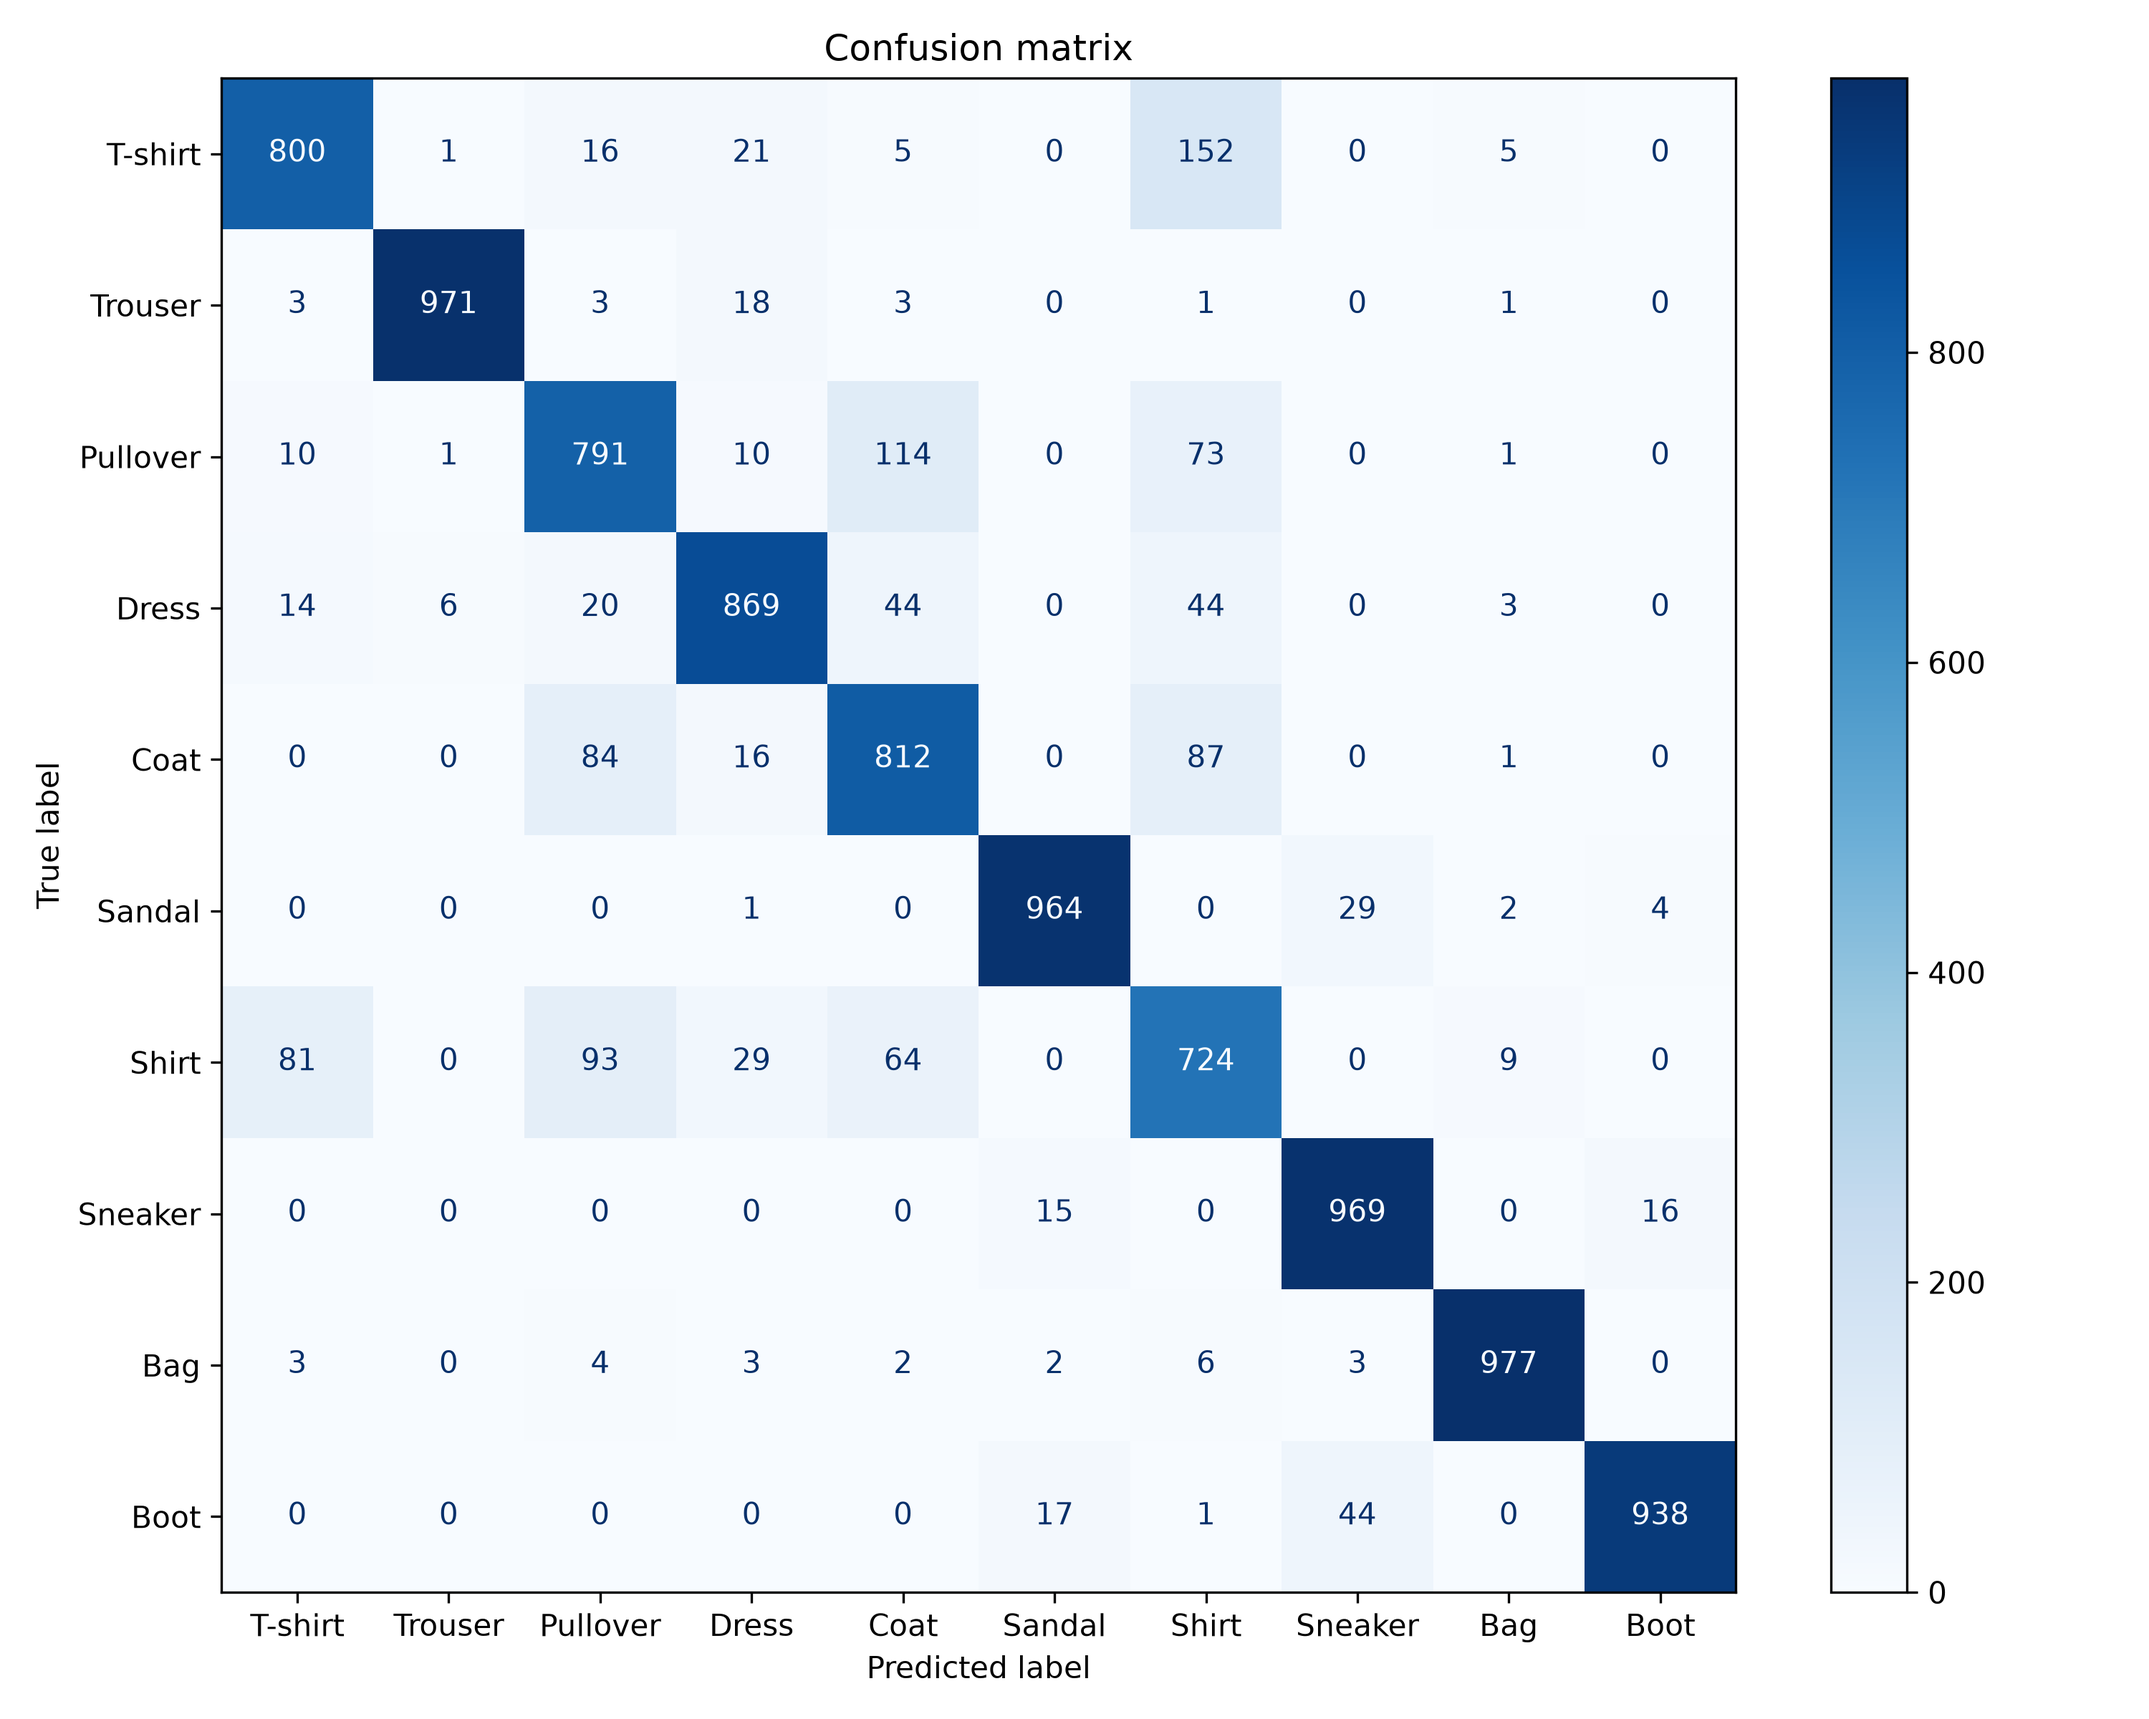
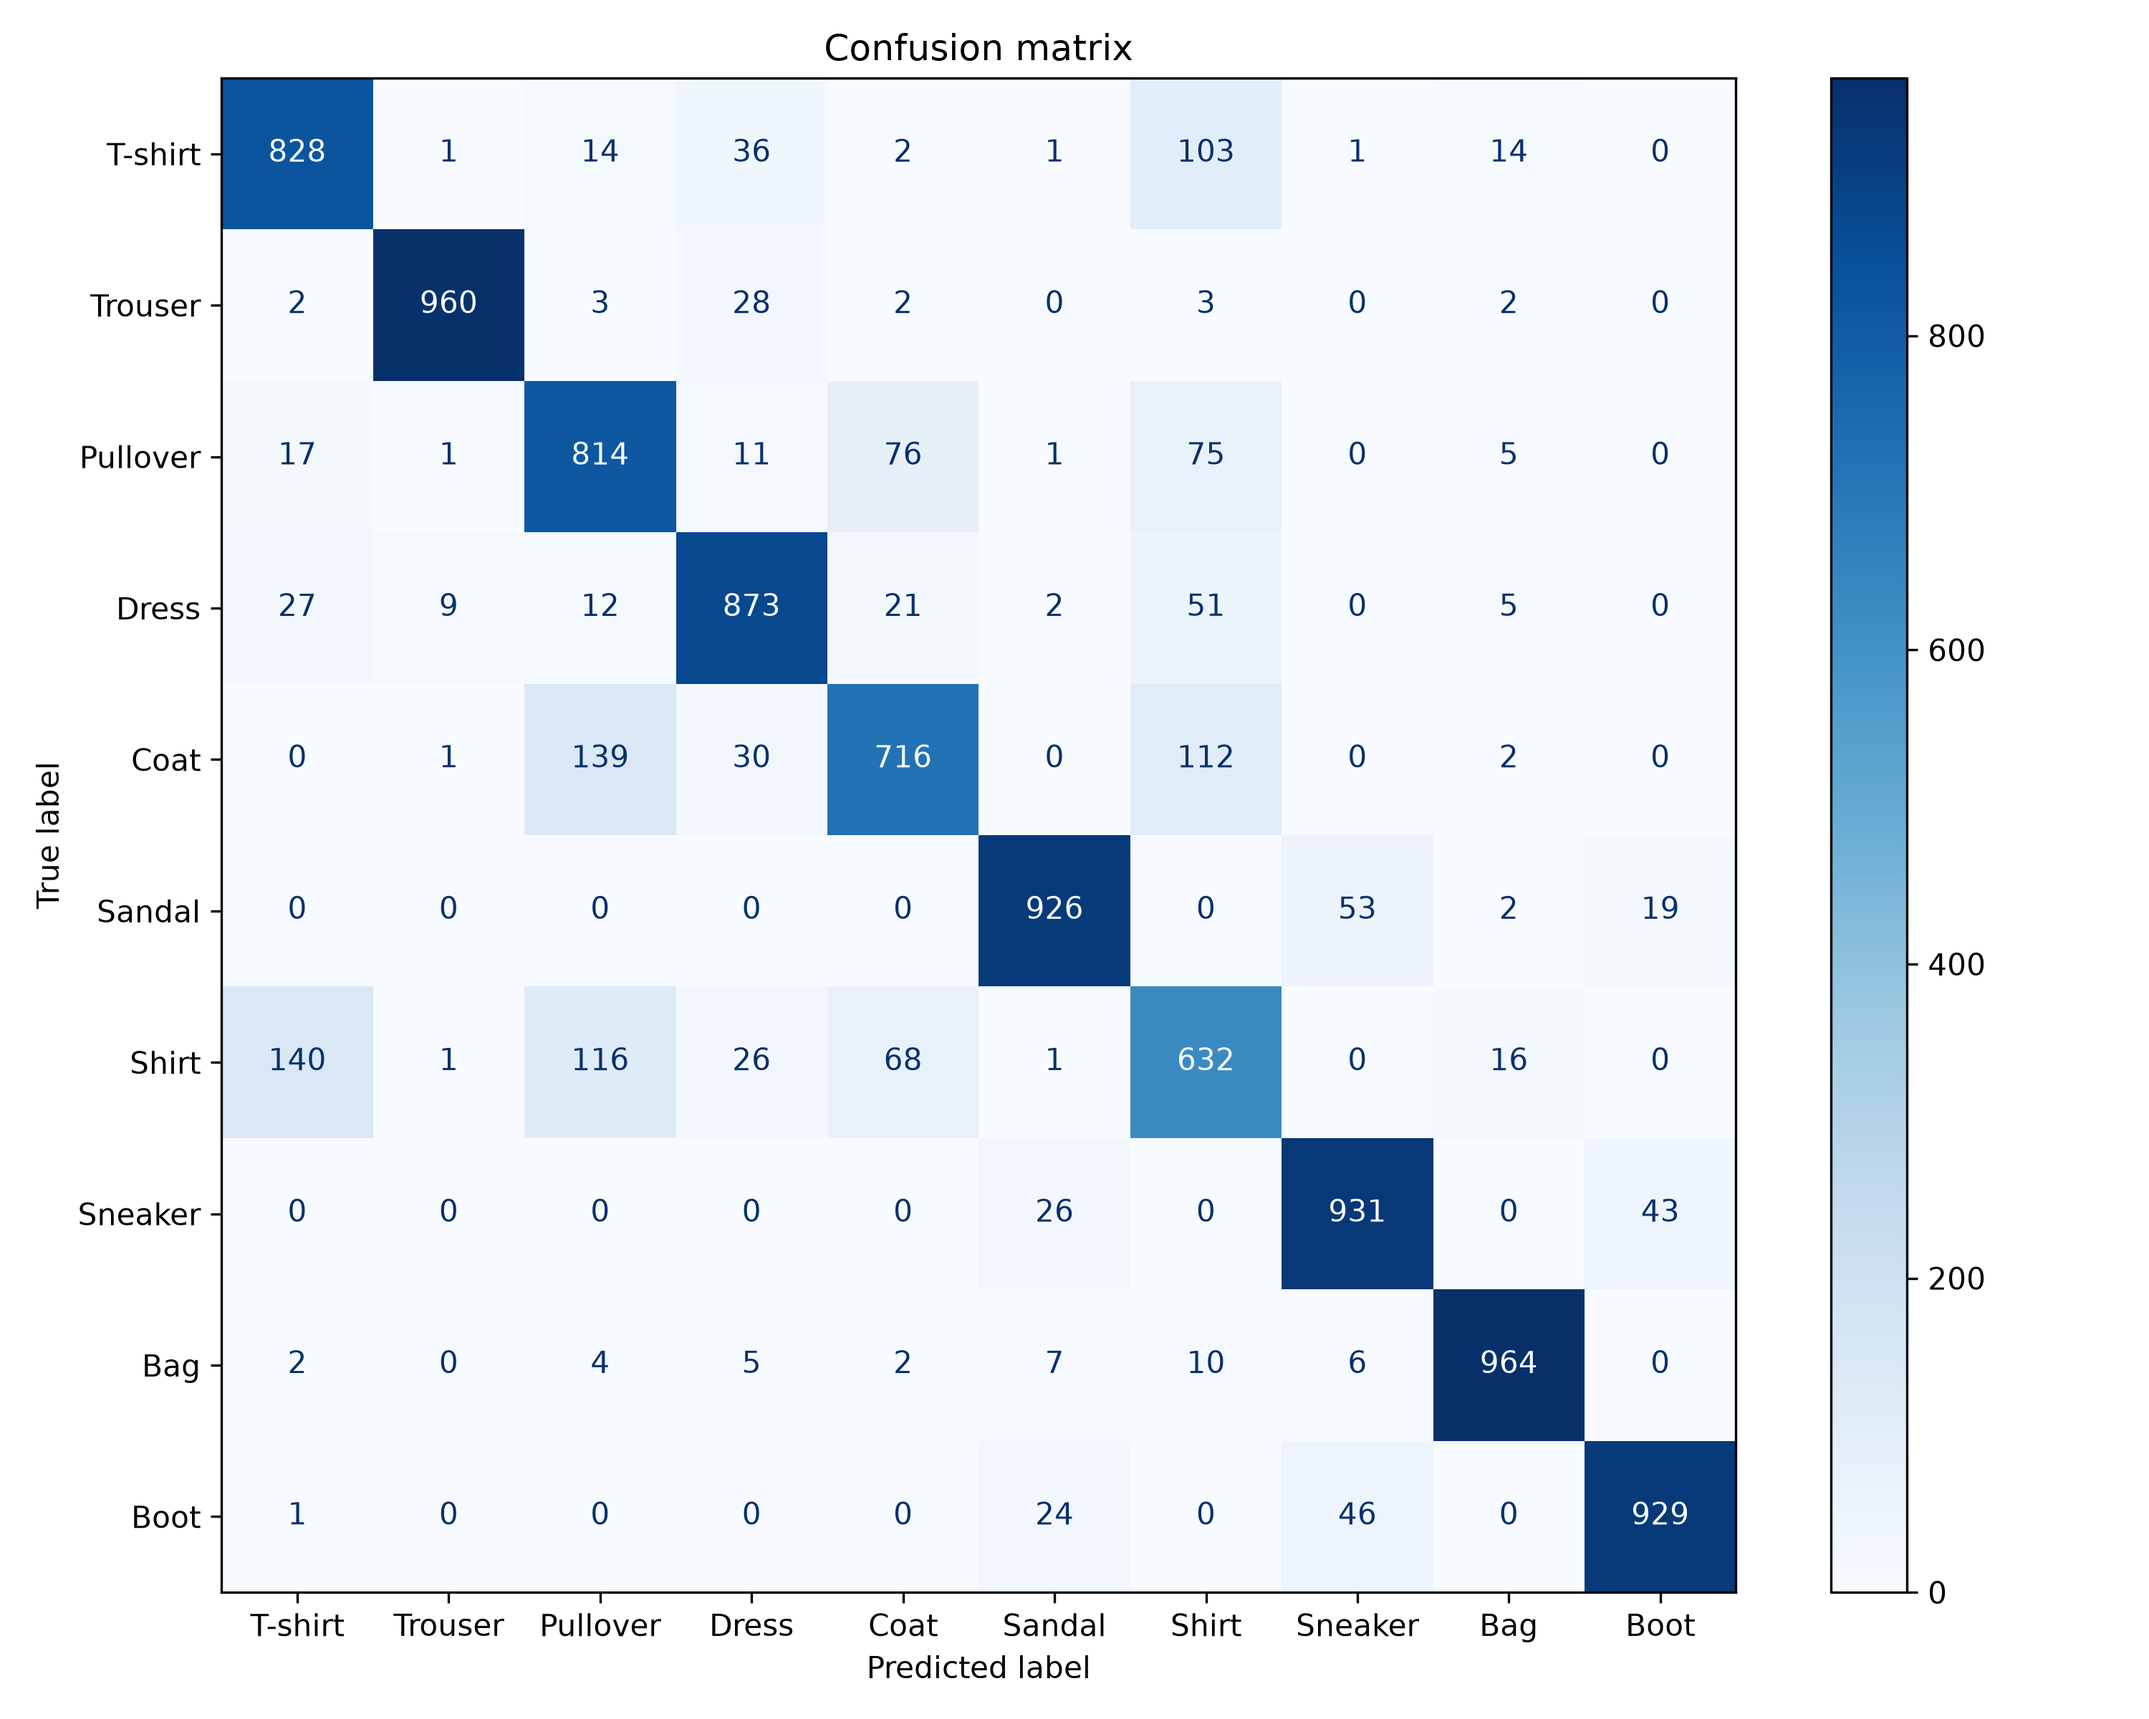
Normalization changed

diff --git a/src/preprocess.py b/src/preprocess.py
@@ -14,8 +14,8 @@ y_train = np.load("data/raw/y_train.npy")
 X_test  = np.load("data/raw/X_test.npy")
 y_test  = np.load("data/raw/y_test.npy")
 
-X_train = X_train.astype("float32") / 255.0
-X_test  = X_test.astype("float32")  / 255.0
+X_train = (X_train.astype("float32") / 255.0) -1
+X_test  = (X_test.astype("float32")  / 255.0) -1
 
 X_train, X_val, y_train, y_val = train_test_split(
     X_train, y_train,
